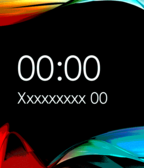
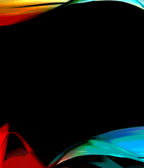
Added theme support + slide animate for the time
Added theme support. Added 4 extra background images to support this, of which three of them are color variations of the already added background image.

Also the time now have a slide animation when the minute changes.

diff --git a/src/clock.c b/src/clock.c
@@ -1,5 +1,6 @@
 #include "clock.h"
 #include <pebble.h>
+#include "themes.h"
 
 // BEGIN AUTO-GENERATED UI CODE; DO NOT MODIFY
 static Window *s_window;
@@ -7,8 +8,10 @@ static GBitmap *s_res_image_bg_2;
 static GFont s_res_bitham_42_medium_numbers;
 static GFont s_res_gothic_18_bold;
 static BitmapLayer *s_bitmaplayer_1;
+static BitmapLayer *s_bitmaplayer_2;
 static TextLayer *s_textlayer_time;
 static TextLayer *s_textlayer_date;
+static TextLayer *s_textlayer_time_2;
 
 static void initialise_ui(void) {
   s_window = window_create();
@@ -23,9 +26,13 @@ static void initialise_ui(void) {
   bitmap_layer_set_bitmap(s_bitmaplayer_1, s_res_image_bg_2);
   layer_add_child(window_get_root_layer(s_window), (Layer *)s_bitmaplayer_1);
   
+  // s_bitmaplayer_2
+  s_bitmaplayer_2 = bitmap_layer_create(GRect(0, 34, 144, 74));
+  layer_add_child(window_get_root_layer(s_window), (Layer *)s_bitmaplayer_2);
+  
   // s_textlayer_time
-  s_textlayer_time = text_layer_create(GRect(13, 42, 119, 43));
-  text_layer_set_background_color(s_textlayer_time, GColorBlack);
+  s_textlayer_time = text_layer_create(GRect(0, 42, 135, 43));
+  text_layer_set_background_color(s_textlayer_time, GColorClear);
   text_layer_set_text_color(s_textlayer_time, GColorWhite);
   text_layer_set_text(s_textlayer_time, "00:00");
   text_layer_set_text_alignment(s_textlayer_time, GTextAlignmentCenter);
@@ -34,22 +41,189 @@ static void initialise_ui(void) {
   
   // s_textlayer_date
   s_textlayer_date = text_layer_create(GRect(13, 87, 96, 20));
-  text_layer_set_background_color(s_textlayer_date, GColorBlack);
+  text_layer_set_background_color(s_textlayer_date, GColorClear);
   text_layer_set_text_color(s_textlayer_date, GColorWhite);
   text_layer_set_text(s_textlayer_date, "Xxxxxxxxx 00");
   text_layer_set_text_alignment(s_textlayer_date, GTextAlignmentCenter);
   text_layer_set_font(s_textlayer_date, s_res_gothic_18_bold);
   layer_add_child(window_get_root_layer(s_window), (Layer *)s_textlayer_date);
+  
+  // s_textlayer_time_2
+  s_textlayer_time_2 = text_layer_create(GRect(144, 42, 135, 43));
+  text_layer_set_background_color(s_textlayer_time_2, GColorClear);
+  text_layer_set_text_color(s_textlayer_time_2, GColorWhite);
+  text_layer_set_text(s_textlayer_time_2, "00:00");
+  text_layer_set_text_alignment(s_textlayer_time_2, GTextAlignmentCenter);
+  text_layer_set_font(s_textlayer_time_2, s_res_bitham_42_medium_numbers);
+  layer_add_child(window_get_root_layer(s_window), (Layer *)s_textlayer_time_2);
 }
 
 static void destroy_ui(void) {
   window_destroy(s_window);
   bitmap_layer_destroy(s_bitmaplayer_1);
+  bitmap_layer_destroy(s_bitmaplayer_2);
   text_layer_destroy(s_textlayer_time);
   text_layer_destroy(s_textlayer_date);
+  text_layer_destroy(s_textlayer_time_2);
   gbitmap_destroy(s_res_image_bg_2);
 }
 // END AUTO-GENERATED UI CODE
+
+typedef struct {
+	TextLayer *currentLayer;
+	TextLayer *nextLayer;	
+	PropertyAnimation *currentAnimation;
+	PropertyAnimation *nextAnimation;
+} Line;
+
+
+
+
+
+
+static time_t last_tapped = -1;
+
+static int current_bg_image = 0;
+
+static void set_container_image(GBitmap **bmp_image, BitmapLayer *bmp_layer, const int resource_id, GPoint origin) {
+  APP_LOG(APP_LOG_LEVEL_DEBUG, "resource_id: %d", resource_id);
+  GBitmap *old_image = *bmp_image;
+  if (old_image != NULL) {
+    gbitmap_destroy(old_image);
+  }
+  *bmp_image = gbitmap_create_with_resource(resource_id);
+  #ifdef PBL_PLATFORM_BASALT
+    GRect bitmap_bounds = gbitmap_get_bounds((*bmp_image));
+  #else
+    GRect bitmap_bounds = (*bmp_image)->bounds;
+  #endif
+  GRect frame = GRect(origin.x, origin.y, bitmap_bounds.size.w, bitmap_bounds.size.h);
+  bitmap_layer_set_bitmap(bmp_layer, *bmp_image);
+  layer_set_frame(bitmap_layer_get_layer(bmp_layer), frame);
+  
+}
+
+static void setBackgroundImage(int increment) {
+  int next_index = current_bg_image+increment;
+  if (next_index >= BACKGROUND_COUNT) {
+    next_index = 0;
+  } else if (next_index < 0) {
+    next_index = BACKGROUND_COUNT - 1;
+  }
+  current_bg_image = next_index;
+  Theme theme = themes[current_bg_image];
+  APP_LOG(APP_LOG_LEVEL_DEBUG, "next_index: %d", current_bg_image);
+  set_container_image(&s_res_image_bg_2, s_bitmaplayer_1, theme.resource_id, GPoint(0, 0));
+  
+  //bitmap_layer_set_background_color(s_bitmaplayer_2, GColorFromHEX(theme.text_bg_color));
+  
+  //text_layer_set_background_color(s_textlayer_time, GColorFromHEX(theme.text_bg_color));
+  text_layer_set_text_color(s_textlayer_time, GColorFromHEX(theme.text_time_color));
+  
+  //text_layer_set_background_color(s_textlayer_time_2, GColorFromHEX(theme.text_bg_color));
+  text_layer_set_text_color(s_textlayer_time_2, GColorFromHEX(theme.text_time_color));
+  
+  //text_layer_set_background_color(s_textlayer_date, GColorFromHEX(theme.text_bg_color));
+  text_layer_set_text_color(s_textlayer_date, GColorFromHEX(theme.text_date_color));
+  //set_container_image(&s_res_image_bg_2, s_bitmaplayer_1, BACKGROUND_IMAGE_RESOURCE_IDS[current_bg_image], GPoint(0, 0));
+}
+
+
+static void tap_handler(AccelAxisType axis, int32_t direction) {
+  time_t now;
+  switch (axis) {
+  case ACCEL_AXIS_X:
+    if (direction > 0) {
+      APP_LOG(APP_LOG_LEVEL_INFO, "X axis positive.");
+    } else {
+      APP_LOG(APP_LOG_LEVEL_INFO, "X axis negative.");
+    }
+    break;
+  case ACCEL_AXIS_Y:
+    now = time(NULL);
+    if (last_tapped == -1 || now - last_tapped >= 1) {
+      if (direction > 0) {
+        setBackgroundImage(1);
+        APP_LOG(APP_LOG_LEVEL_INFO, "Y axis positive.");
+      } else {
+        setBackgroundImage(-1);
+        APP_LOG(APP_LOG_LEVEL_INFO, "Y axis negative.");
+      }
+    }
+    last_tapped = now;
+    break;
+  case ACCEL_AXIS_Z:
+    if (direction > 0) {
+      APP_LOG(APP_LOG_LEVEL_INFO, "Z axis positive.");
+    } else {
+      APP_LOG(APP_LOG_LEVEL_INFO, "Z axis negative.");
+    }
+    break;
+  }
+}
+
+
+
+
+
+static Line line1;
+static Line line2;
+
+// Animation handler
+static void animationStoppedHandler(struct Animation *animation, bool finished, void *context)
+{
+	Layer *textLayer = text_layer_get_layer((TextLayer *)context);
+	GRect rect = layer_get_frame(textLayer);
+	rect.origin.x = 144;
+	layer_set_frame(textLayer, rect);
+}
+
+
+// Animate line
+static void makeAnimationsForLayers(Line *line, TextLayer *current, TextLayer *next)
+{
+	GRect fromRect = layer_get_frame(text_layer_get_layer(next));
+	GRect toRect = fromRect;
+	toRect.origin.x -= 144;
+	
+	line->nextAnimation = property_animation_create_layer_frame(text_layer_get_layer(next), &fromRect, &toRect);
+	animation_set_duration((Animation *)line->nextAnimation, 400);
+	animation_set_curve((Animation *)line->nextAnimation, AnimationCurveEaseOut);
+	animation_schedule((Animation *)line->nextAnimation);
+	
+	GRect fromRect2 = layer_get_frame(text_layer_get_layer(current));
+	GRect toRect2 = fromRect2;
+	toRect2.origin.x -= 144;
+	
+	line->currentAnimation = property_animation_create_layer_frame(text_layer_get_layer(current), &fromRect2, &toRect2);
+	animation_set_duration((Animation *)line->currentAnimation, 400);
+	animation_set_curve((Animation *)line->currentAnimation, AnimationCurveEaseOut);
+	
+	animation_set_handlers((Animation *)line->currentAnimation, (AnimationHandlers) {
+		.stopped = (AnimationStoppedHandler)animationStoppedHandler
+	}, current);
+	
+	animation_schedule((Animation *)line->currentAnimation);
+}
+
+// Update line
+static void updateLineTo(Line *line, char *value)
+{
+	TextLayer *next, *current;
+	
+	GRect rect = layer_get_frame(text_layer_get_layer(line->currentLayer));
+	current = (rect.origin.x == 0) ? line->currentLayer : line->nextLayer;
+	next = (current == line->currentLayer) ? line->nextLayer : line->currentLayer;
+	
+	// Update correct text only
+	if (current == line->currentLayer) {
+		text_layer_set_text(next, value);
+	} else {
+		text_layer_set_text(next, value);
+	}
+	
+	makeAnimationsForLayers(line, current, next);
+}
 
 static void handle_minute_tick(struct tm *tick_time, TimeUnits units_changed) {
   // Need to be static because they're used by the system later.
@@ -71,7 +245,36 @@ static void handle_minute_tick(struct tm *tick_time, TimeUnits units_changed) {
   if (!clock_is_24h_style() && (s_time_text[0] == '0')) {
     memmove(s_time_text, &s_time_text[1], sizeof(s_time_text) - 1);
   }
+  updateLineTo(&line1, s_time_text);
+  //text_layer_set_text(s_textlayer_time, s_time_text);
+}
+
+static void handle_initial_minute_tick(struct tm *tick_time, TimeUnits units_changed) {
+  // Need to be static because they're used by the system later.
+  static char s_time_text[] = "00:00";
+  static char s_date_text[] = "Xxxxxxxxx 00";
+
+  strftime(s_date_text, sizeof(s_date_text), "%B %e", tick_time);
+  text_layer_set_text(s_textlayer_date, s_date_text);
+
+  char *time_format;
+  if (clock_is_24h_style()) {
+    time_format = "%R";
+  } else {
+    time_format = "%I:%M";
+  }
+  strftime(s_time_text, sizeof(s_time_text), time_format, tick_time);
+
+  // Handle lack of non-padded hour format string for twelve hour clock.
+  if (!clock_is_24h_style() && (s_time_text[0] == '0')) {
+    memmove(s_time_text, &s_time_text[1], sizeof(s_time_text) - 1);
+  }
   text_layer_set_text(s_textlayer_time, s_time_text);
+  text_layer_set_text(s_textlayer_time_2, s_time_text);
+}
+
+static void handle_window_load(Window *window) {
+  
 }
 
 static void handle_window_unload(Window* window) {
@@ -80,20 +283,29 @@ static void handle_window_unload(Window* window) {
 
 void show_clock(void) {
   initialise_ui();
+  
+  // 1st line layers
+	line1.currentLayer = s_textlayer_time;
+	line1.nextLayer = s_textlayer_time_2;
+  
   window_set_window_handlers(s_window, (WindowHandlers) {
+    .load = handle_window_load,
     .unload = handle_window_unload,
   });
   window_stack_push(s_window, true);
   
   tick_timer_service_subscribe(MINUTE_UNIT, handle_minute_tick);
+  accel_tap_service_subscribe(tap_handler);
   
   // Prevent starting blank
   time_t now = time(NULL);
   struct tm *t = localtime(&now);
-  handle_minute_tick(t, MINUTE_UNIT);
+  handle_initial_minute_tick(t, MINUTE_UNIT);
 }
 
 void hide_clock(void) {
+  tick_timer_service_unsubscribe();
+  accel_tap_service_unsubscribe();
   window_stack_remove(s_window, true);
 }
 

diff --git a/src/themes.h b/src/themes.h
@@ -1,0 +1,33 @@
+#pragma once
+
+typedef struct {
+  const int resource_id;
+  const int text_time_color;
+  const int text_date_color;
+} Theme;
+
+static const int BACKGROUND_COUNT = 5;
+
+static const Theme themes[] = {
+  {
+    .resource_id = RESOURCE_ID_IMAGE_BG_2,
+    .text_time_color = 0xffffff,
+    .text_date_color = 0xffffff
+  }, {
+    .resource_id = RESOURCE_ID_IMAGE_BG_3,
+    .text_time_color = 0xffffff,
+    .text_date_color = 0xffffff
+  }, {
+    .resource_id = RESOURCE_ID_IMAGE_BG_4,
+    .text_time_color = 0x000000,
+    .text_date_color = 0x000000
+  }, {
+    .resource_id = RESOURCE_ID_IMAGE_BG_5,
+    .text_time_color = 0x000000,
+    .text_date_color = 0x000000
+  }, {
+    .resource_id = RESOURCE_ID_IMAGE_BG_8,
+    .text_time_color = 0xAAAA00,
+    .text_date_color = 0xffffff
+  }
+};
